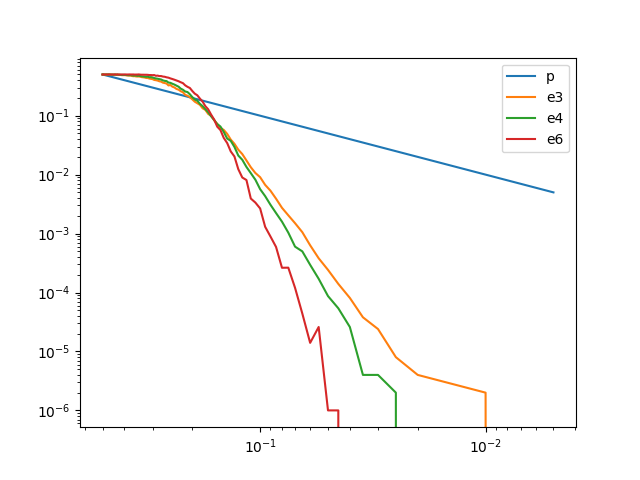
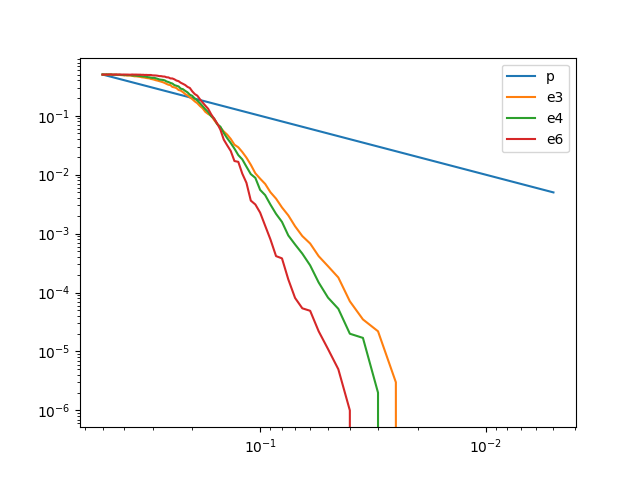
fix hamming data

diff --git a/professional/ele-32/lab3/plotter/space_comparation.py b/professional/ele-32/lab3/plotter/space_comparation.py
@@ -1,7 +1,7 @@
 import matplotlib.pyplot as plt
 from data_grabber import grab_space_comparation_data
 
-data = grab_space_comparation_data('logprob')
+data = grab_space_comparation_data('hamming')
 p, e3, e4, e6 = data['p'], data['e3'], data['e4'], data['e6']
 
 plt.figure()
